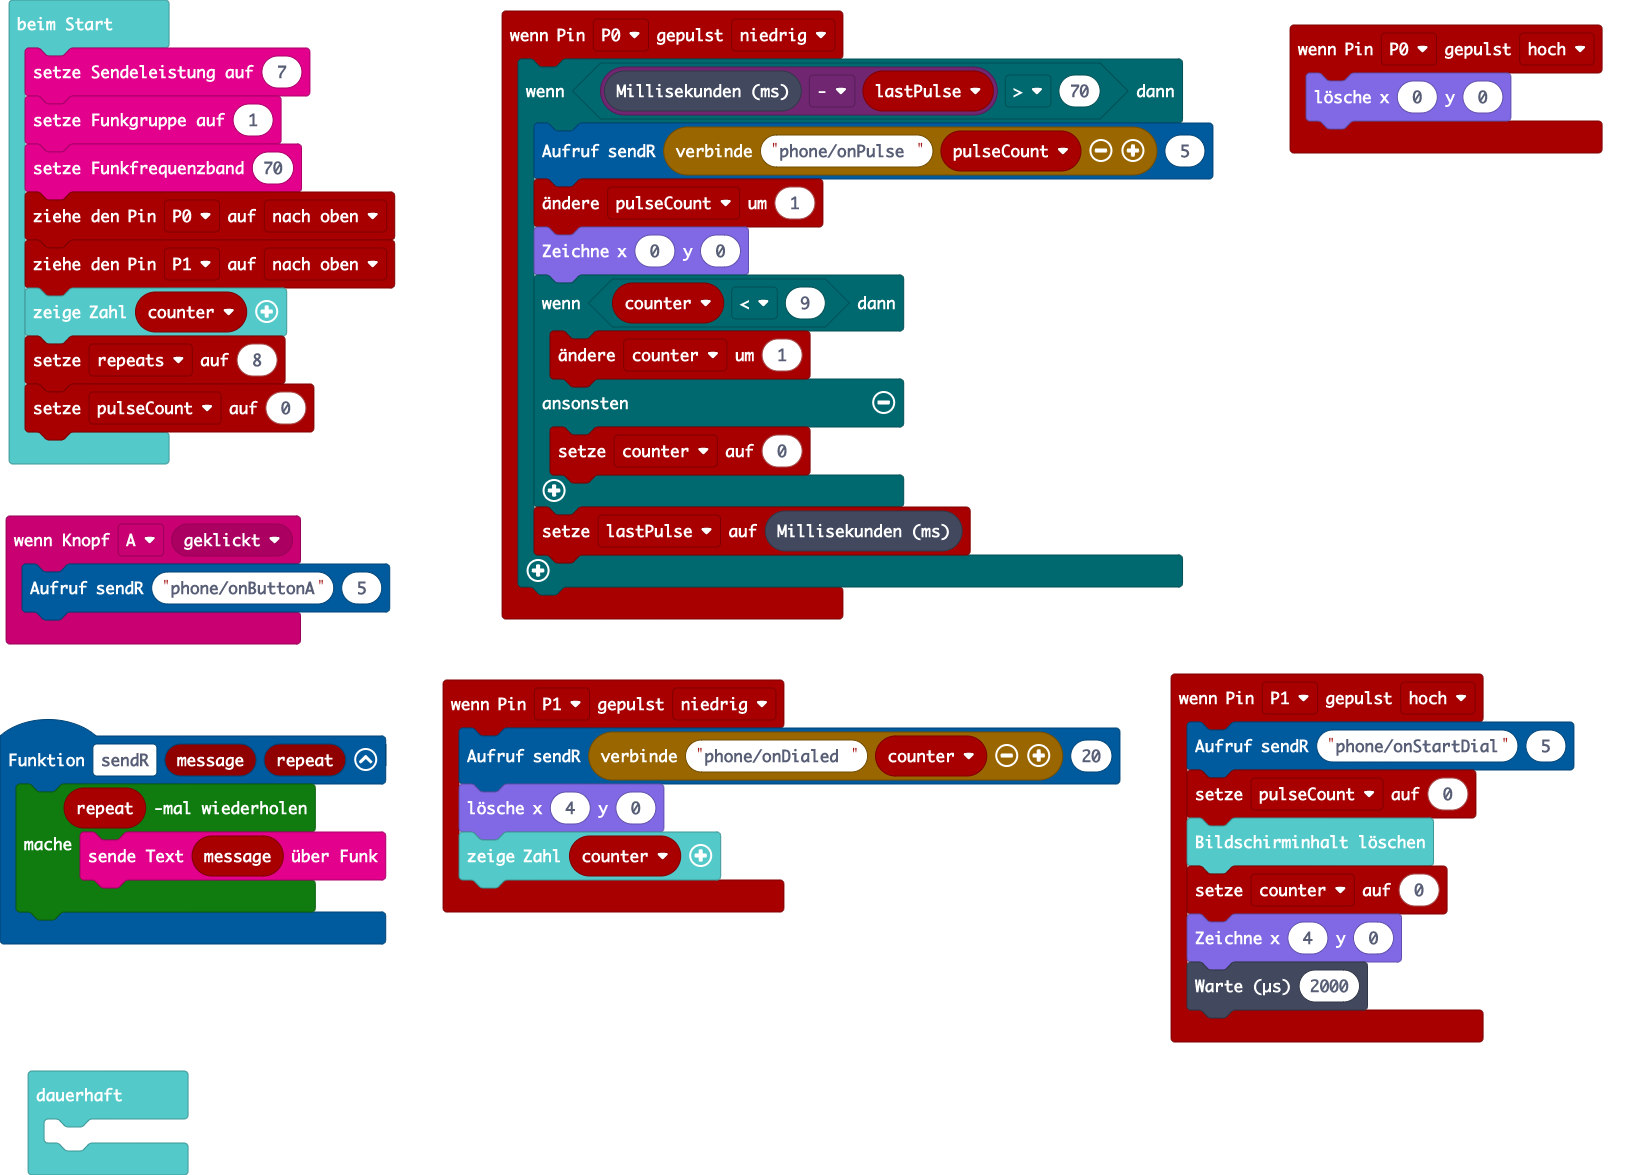
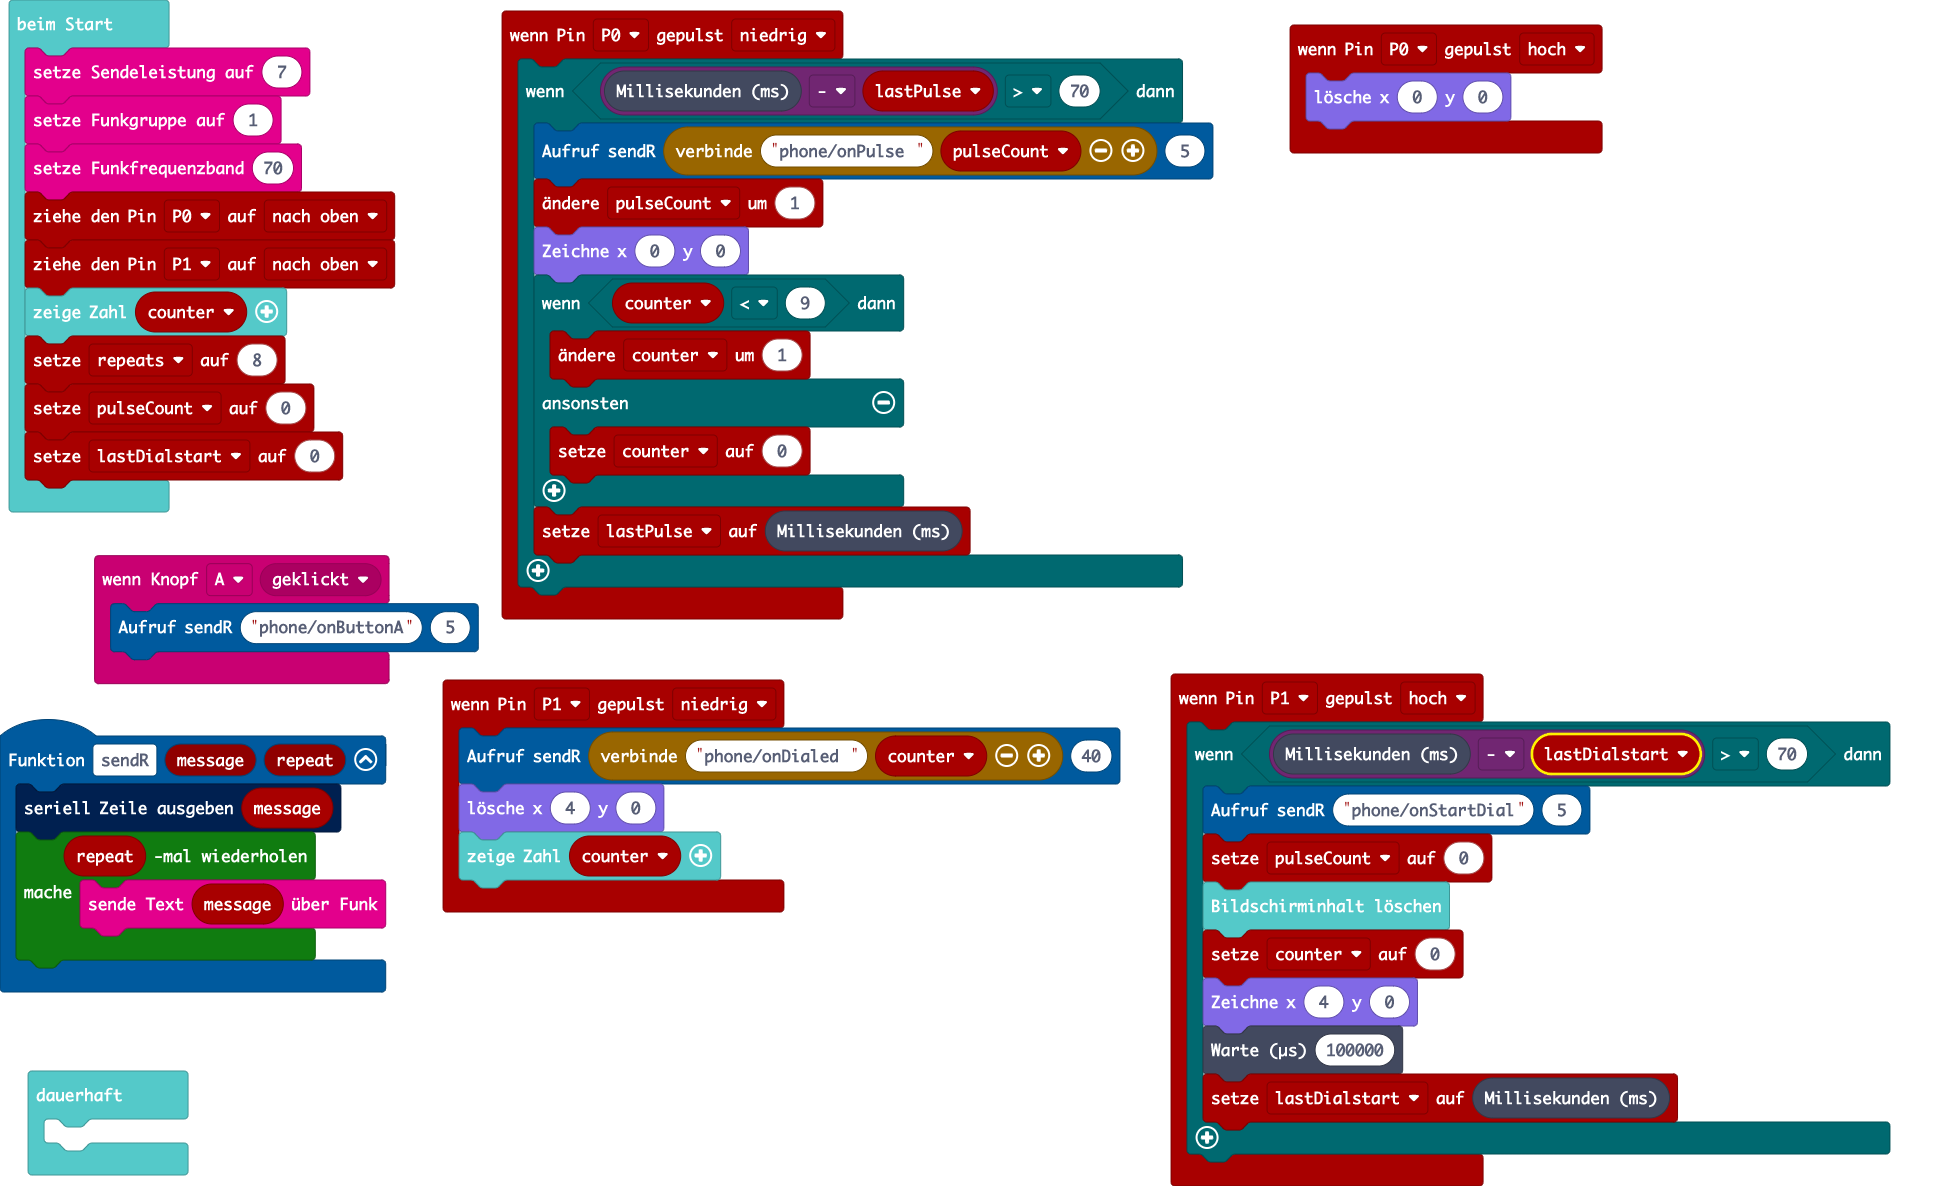
debounce dialing start

diff --git a/main.ts b/main.ts
@@ -5,22 +5,26 @@ input.onButtonEvent(Button.A, ButtonEvent.Click, function () {
     sendR("phone/onButtonA", 5)
 })
 pins.onPulsed(DigitalPin.P1, PulseValue.Low, function () {
-    sendR("phone/onDialed " + counter, 20)
+    sendR("phone/onDialed " + counter, 40)
     led.unplot(4, 0)
     basic.showNumber(counter)
 })
 function sendR (message: string, repeat: number) {
+    serial.writeLine(message)
     for (let index = 0; index < repeat; index++) {
         radio.sendString(message)
     }
 }
 pins.onPulsed(DigitalPin.P1, PulseValue.High, function () {
-    sendR("phone/onStartDial", 5)
-    pulseCount = 0
-    basic.clearScreen()
-    counter = 0
-    led.plot(4, 0)
-    control.waitMicros(2000)
+    if (control.millis() - lastDialstart > 70) {
+        sendR("phone/onStartDial", 5)
+        pulseCount = 0
+        basic.clearScreen()
+        counter = 0
+        led.plot(4, 0)
+        control.waitMicros(100000)
+        lastDialstart = control.millis()
+    }
 })
 pins.onPulsed(DigitalPin.P0, PulseValue.High, function () {
     led.unplot(0, 0)
@@ -39,6 +43,7 @@ pins.onPulsed(DigitalPin.P0, PulseValue.Low, function () {
     }
 })
 let lastPulse = 0
+let lastDialstart = 0
 let pulseCount = 0
 let counter = 0
 radio.setTransmitPower(7)
@@ -49,6 +54,7 @@ pins.setPull(DigitalPin.P1, PinPullMode.PullUp)
 basic.showNumber(counter)
 let repeats = 8
 pulseCount = 0
+lastDialstart = 0
 basic.forever(function () {
 	
 })
